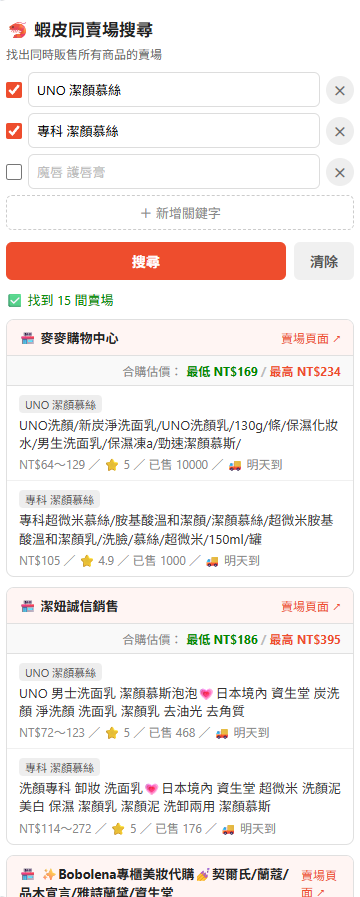
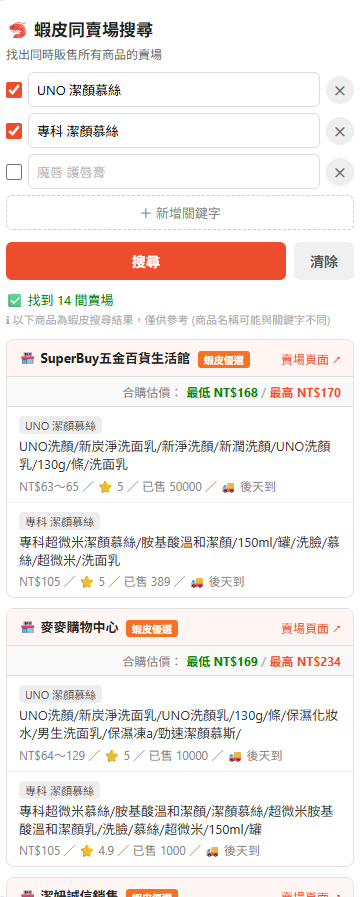
feat: v1.6 — 賣場類型標籤、搜尋結果提示說明、更新 Demo 截圖
- 賣場名稱旁顯示商城旗艦店／商城／蝦皮優選標籤（紅色/橘色區分）
- 以 show_official_shop_label / show_shopee_verified_label 欄位判斷類型
- 搜尋結果下方加入提示說明（商品名稱可能與關鍵字不同，僅供參考）
- 移除未使用的 LIMIT = 20 常數
- 版本號升至 1.6
- 更新 Demo 截圖與 README 說明

Changed region(s): [[0.0, 0.3122, 0.9472, 1.0], [0.9778, 0.9365, 1.0, 0.9677]]

diff --git a/shopee-finder/style.css b/shopee-finder/style.css
@@ -12,6 +12,7 @@ body {
 h1 { font-size: 17px; margin-bottom: 4px; }
 
 .hint { color: #666; font-size: 12px; margin-bottom: 10px; }
+.result-hint { color: #aaa; font-size: 11px; margin: 0 0 2px; padding: 0; }
 
 #keyword-list { display: flex; flex-direction: column; gap: 6px; margin-bottom: 6px; }
 
@@ -91,6 +92,7 @@ button {
 
 #status {
   margin-top: 10px;
+  margin-bottom: 0;
   font-size: 13px;
   min-height: 18px;
 }
@@ -98,7 +100,7 @@ button {
 #status.success { color: #080; }
 #status.loading { color: #888; }
 
-#results { margin-top: 10px; display: flex; flex-direction: column; gap: 10px; }
+#results { margin-top: 2px; display: flex; flex-direction: column; gap: 10px; }
 
 .shop-card {
   border: 1px solid #e0e0e0;
@@ -131,6 +133,18 @@ button {
   border-bottom: 1px solid #e0e0e0;
 }
 .shop-name  { font-weight: bold; font-size: 13px; }
+.shop-badge {
+  display: inline-block;
+  font-size: 10px;
+  font-weight: bold;
+  padding: 1px 6px;
+  border-radius: 3px;
+  color: #fff;
+  vertical-align: middle;
+  margin-left: 4px;
+}
+.badge-mall      { background: #d0011b; }
+.badge-preferred { background: #f57224; }
 .shop-link  { font-size: 12px; color: #ee4d2d; text-decoration: none; }
 .shop-link:hover { text-decoration: underline; }
 

diff --git a/shopee-finder/background.js b/shopee-finder/background.js
@@ -4,8 +4,6 @@
 
 chrome.sidePanel.setPanelBehavior({ openPanelOnActionClick: true });
 
-const LIMIT = 20;
-
 function delay(ms) {
   return new Promise((r) => setTimeout(r, ms));
 }
@@ -67,6 +65,12 @@ function parseItem(item) {
     rating:   Math.round((b.item_rating?.rating_star ?? 0) * 10) / 10,
     url:      `https://shopee.tw/product/${b.shopid}/${b.itemid}`,
     delivery: b.estimated_delivery_time?.estimated_delivery_time_text ?? "",
+    shopType: (() => {
+      if (b.show_official_shop_label === true)
+        return (b.shop_name ?? "").includes("旗艦") ? "商城旗艦店" : "商城";
+      if (b.show_shopee_verified_label === true) return "蝦皮優選";
+      return "";
+    })(),
   };
 }
 
@@ -101,11 +105,12 @@ async function findCommonShops(keywords) {
   for (const sid of common) {
     const firstKw = keywords[0];
     const shopName = allResults[firstKw][sid][0].shopName;
+    const shopType = allResults[firstKw][sid][0].shopType ?? "";
     const items = {};
     for (const kw of keywords) {
       items[kw] = allResults[kw][sid] ?? [];
     }
-    shops.push({ shopId: sid, shopName, items });
+    shops.push({ shopId: sid, shopName, shopType, items });
   }
 
   return { shops, keywords };

diff --git a/shopee-finder/popup.js b/shopee-finder/popup.js
@@ -182,6 +182,10 @@ function renderResults({ shops, keywords }) {
   }
 
   setStatus(`✅ 找到 ${shops.length} 間賣場`, "success");
+  const hint = document.createElement("p");
+  hint.className = "result-hint";
+  hint.textContent = "ℹ 以下商品為蝦皮搜尋結果，僅供參考 (商品名稱可能與關鍵字不同)";
+  resultsEl.appendChild(hint);
   clearBtn.style.display = "";
 
   shops.sort((a, b) => {
@@ -198,8 +202,12 @@ function renderResults({ shops, keywords }) {
 
     const header = document.createElement("div");
     header.className = "shop-header";
+    const badgeClass = shop.shopType.includes("商城") ? "shop-badge badge-mall" : "shop-badge badge-preferred";
+    const badgeHtml = shop.shopType
+      ? ` <span class="${badgeClass}">${shop.shopType}</span>`
+      : "";
     header.innerHTML = `
-      <span class="shop-name">🏪 ${shop.shopName}</span>
+      <span class="shop-name">🏪 ${shop.shopName}${badgeHtml}</span>
       <a href="https://shopee.tw/shop/${shop.shopId}/" target="_blank" class="shop-link">賣場頁面 ↗</a>
     `;
     card.appendChild(header);

diff --git a/README.md b/README.md
@@ -2,7 +2,7 @@
 
 輸入多個關鍵字，自動找出**同時販售所有指定商品**的蝦皮賣場。
 
-![版本](https://img.shields.io/badge/version-1.5-orange)
+![版本](https://img.shields.io/badge/version-1.6-orange)
 ![平台](https://img.shields.io/badge/platform-Chrome%20%2F%20Edge-blue)
 
 ---
@@ -21,7 +21,7 @@
 |:---:|:---:|:---:|
 | ![輸入關鍵字](docs/screenshots/01_input.png) | ![搜尋結果](docs/screenshots/02_result1.png) | ![勾選調整後結果](docs/screenshots/03_result2.png) |
 
-> 第三張：取消勾選「魔唇 護唇膏」後重新搜尋，結果從 2 間擴展為 15 間賣場
+> 第三張：取消勾選「魔唇 護唇膏」後重新搜尋，結果從 3 間擴展為 14 間賣場
 
 ---
 
@@ -44,7 +44,7 @@
 3. 預設提供兩個關鍵字輸入框，可按「＋ 新增關鍵字」增加更多
 4. 有 3 個以上關鍵字時，可透過左側勾選框暫時停用某個關鍵字，不需刪除
 5. 按「搜尋」，等待結果
-6. 結果依賣場顯示，包含各商品價格、評分、已售數量、到貨時間，以及**合購估價**（由低至高排序）
+6. 結果依賣場顯示，包含各商品價格、評分、已售數量、到貨時間，以及**合購估價**（由低至高排序）；賣場名稱旁會標示**商城**或**蝦皮優選**類型
 7. 點擊商品或賣場連結可直接前往，**關閉面板後結果仍會保留**
 
 ---
@@ -79,7 +79,7 @@ shopee-finder/
 
 - 需要**先在 Chrome 登入蝦皮**才能使用
 - 搜尋時會在背景短暫切換分頁，屬於正常行為
-- 每次搜尋最多抓取各關鍵字前 20 筆結果；若找不到交集，可嘗試縮減關鍵字數量
+- 每個關鍵字取蝦皮搜尋第一頁的結果進行比對；若找不到交集，可嘗試縮減關鍵字數量或調整關鍵字用詞
 
 ---
 
@@ -90,3 +90,5 @@ shopee-finder/
 - [x] 關鍵字勾選，暫時停用而不刪除
 - [ ] 賣場免運門檻顯示
 - [x] 搜尋結果依合購估價排序（由低至高）
+- [x] 賣場類型標籤（商城旗艦店／商城／蝦皮優選）
+- [ ] 賣場／商品 1 星評價數顯示
